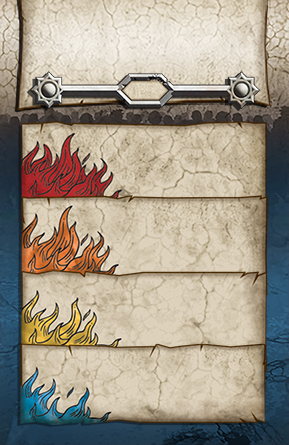
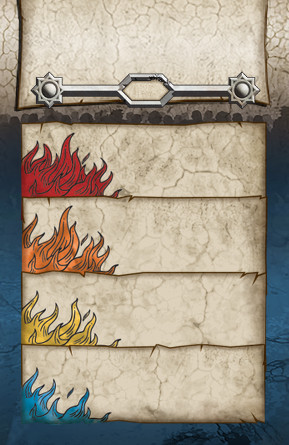
Add new spawn background colors. Fix NPC-2 background color (make it Green)

diff --git a/assets/css/app.css b/assets/css/app.css
@@ -83,10 +83,25 @@ img, .row {
   content: url('../images/spawn/SpawnBlue.jpg');
 }
 
+.spawn img.darkblue {
+  content: url('../images/spawn/SpawnDarkBlue.jpg');
+}
+
+.spawn img.green {
+  content: url('../images/spawn/SpawnGreen.jpg');
+}
+
+.spawn img.yellow {
+  content: url('../images/spawn/SpawnYellow.jpg');
+}
+
+.spawn img.teal {
+  content: url('../images/spawn/SpawnTeal.jpg');
+}
+
 .spawn img.violet {
   content: url('../images/spawn/SpawnViolet.jpg');
 }
-
 
 .spawn .title {
   font-family: AlgoFYRegular;
